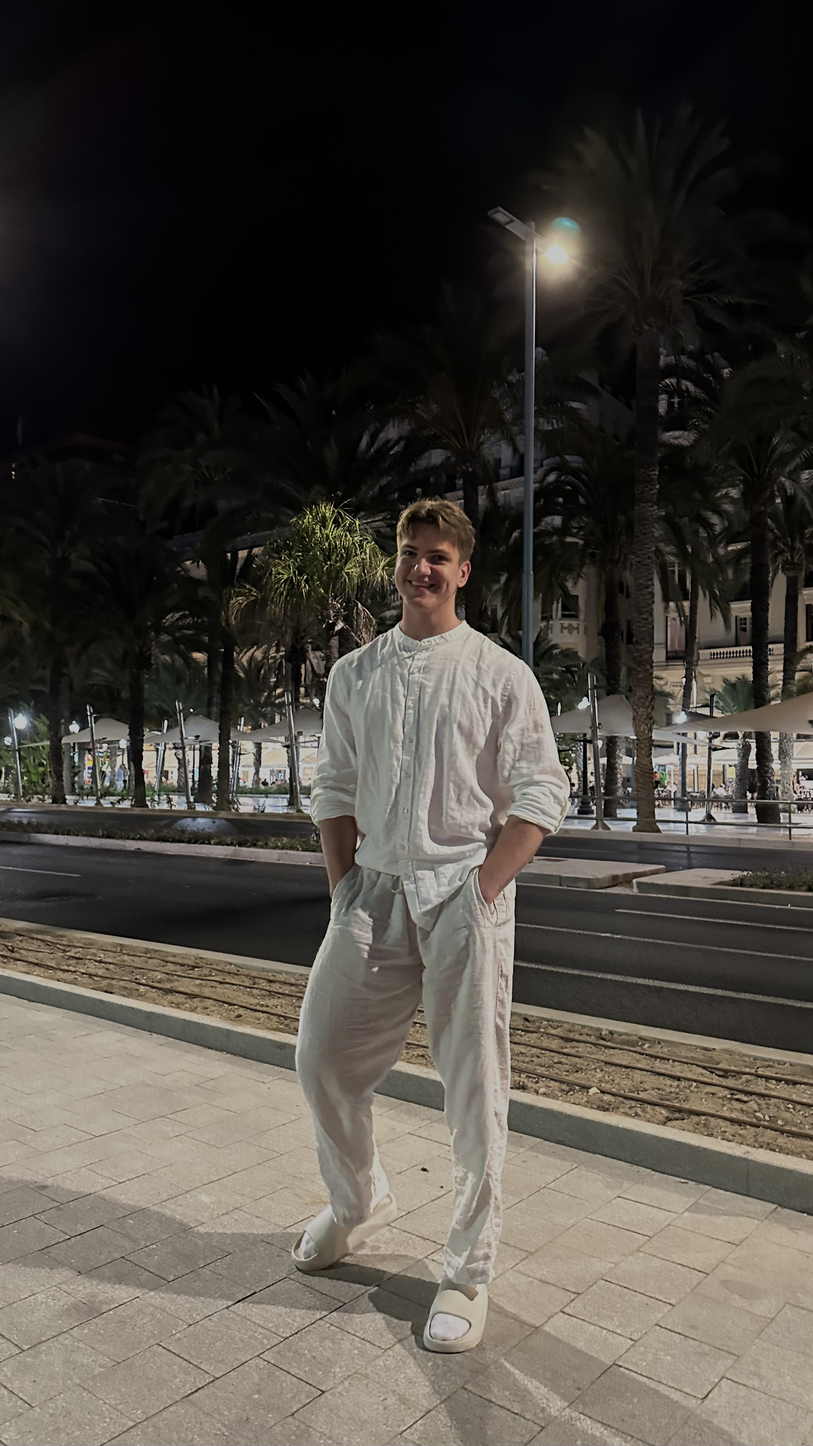
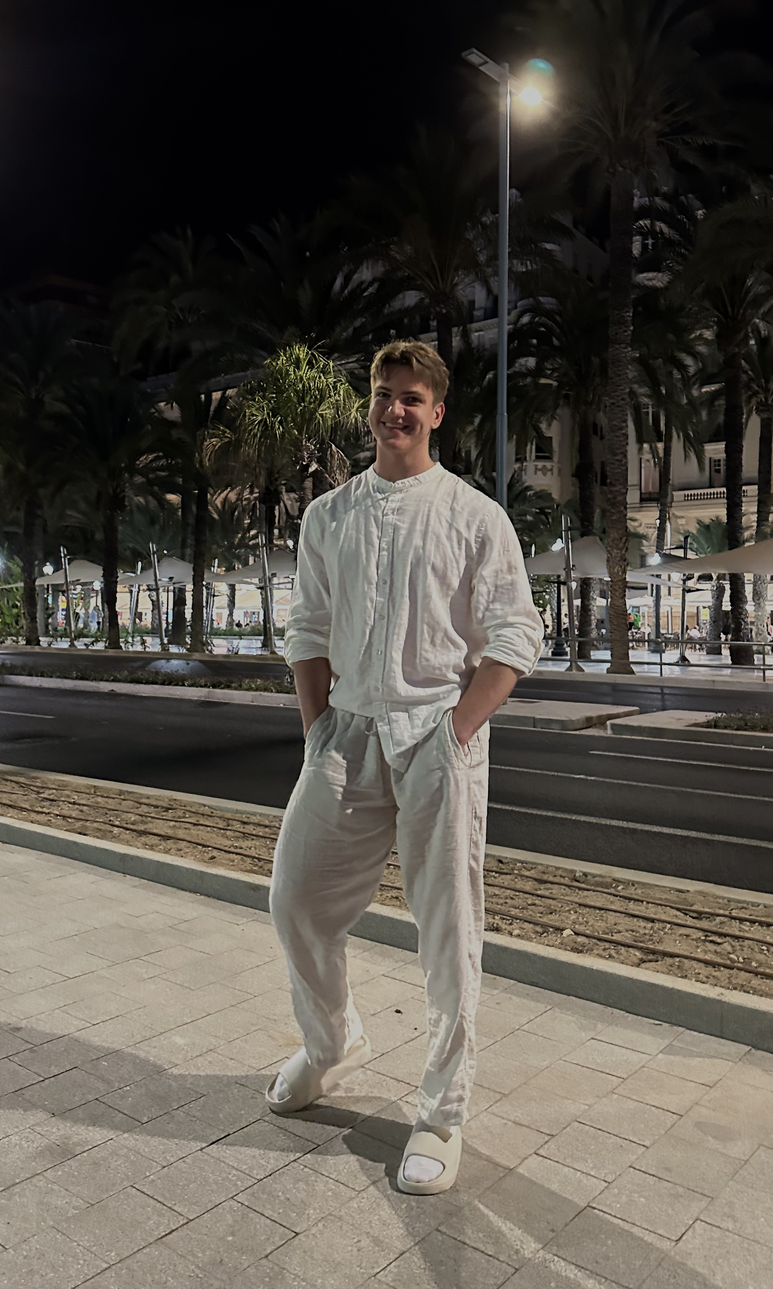
Added styles

diff --git a/js/about-us.js b/js/about-us.js
@@ -48,7 +48,7 @@ mikaelImg.setAttribute("data-name", "mikael");
 mikael.append(mikaelImg);
 
 const img2 = document.createElement("img");
-img2.src = "./images/about-us/yevhenii.jpg";
+img2.src = "./images/about-us/mikael.jpg";
 mikaelImg.append(img2);
 
 let mikaelText = document.createElement("div");
@@ -79,7 +79,7 @@ saifelislamImg.setAttribute("data-name", "saifelislam");
 saifelislam.append(saifelislamImg);
 
 const img3 = document.createElement("img");
-img3.src = "./images/about-us/yevhenii.jpg";
+img3.src = "./images/about-us/saif.jpg";
 saifelislamImg.append(img3);
 
 let saifelislamText = document.createElement("div");
@@ -111,7 +111,7 @@ andrewImg.setAttribute("data-name", "andrew");
 andrew.append(andrewImg);
 
 const img4 = document.createElement("img");
-img4.src = "./images/about-us/yevhenii.jpg";
+img4.src = "./images/about-us/andrew.jpg";
 andrewImg.append(img4);
 
 let andrewText = document.createElement("div");
@@ -144,7 +144,7 @@ sabaImg.setAttribute("data-name", "saba");
 saba.append(sabaImg);
 
 const img5 = document.createElement("img");
-img5.src = "./images/about-us/yevhenii.jpg";
+img5.src = "./images/about-us/saba.jpg";
 sabaImg.append(img5);
 
 let sabaText = document.createElement("div");
@@ -188,8 +188,7 @@ teamTabs.forEach(picture =>
     picture.addEventListener("click", () => {
         const dataName = picture.getAttribute("data-name");
         const associatedDescription = teamPerson.find(
-            descriptionDiv => descriptionDiv.getAttribute("data-name") === dataName
-        );
+            descriptionDiv => descriptionDiv.getAttribute("data-name") === dataName);
 
 
         if (associatedDescription.classList.contains("featured-description")) {

diff --git a/stylesMain/about-us.css b/stylesMain/about-us.css
@@ -1,12 +1,47 @@
+.main-content {
+    padding: 24px;
+}
+
+.team-content {
+    display: flex;
+    justify-content: space-around;
+    gap: 15px;
+}
+
+.team {
+    cursor: pointer;
+    transition: 0.3s ease;
+}
+
+.team img {
+    box-shadow: 0px 0px 10px 0px rgba(0,0,0,0.75);
+}
+
+.team-content:hover > :not(:hover) {
+    filter: blur(3px);
+    opacity: 0.8;
+}
+
+
 .teamsDescription {
     display: none;
 }
 
+.team-description h2 {
+    font-size: 1.8rem;
+}
+
 .featured-description {
-    display: block;
+    color: white;
+    display: flex;
+    flex-direction: column;
+    row-gap: 10px;
+    background-color: rgb(0, 0, 0);
+    padding: 24px;
+    box-shadow: 0px 0px 10px 0px rgba(0,0,0,0.75);
 }
 
 
 .picture {
-    width: 300px;
+    width: 250px;
 }

diff --git a/stylesMain/reset.css b/stylesMain/reset.css
@@ -33,10 +33,7 @@ aside, nav, footer, header, section, main {
 	display: block;
 }
 
-h1, h2, h3, h4, h5, h6, p {
-    font-size: inherit;
-	font-weight: inherit;
-}
+
 
 ul, ul li {
 	list-style: none;
